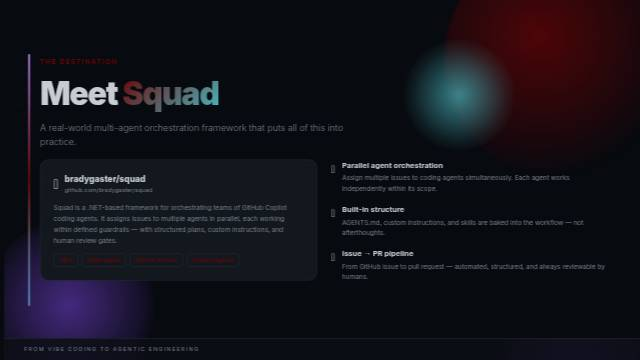
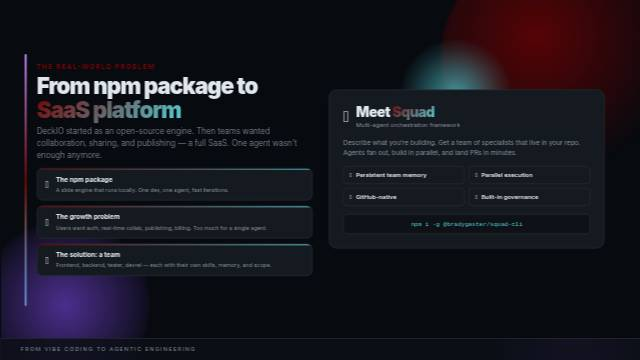
Auto-save from DECKIO — 2026-04-07T08:53

Changed region(s): [[0.0, 0.1528, 0.9375, 0.9167], [0.0312, 0.9472, 0.3125, 0.9778], [0.3438, 0.4583, 0.4688, 0.4889]]

diff --git a/src/slides/SquadSlide.jsx b/src/slides/SquadSlide.jsx
@@ -10,57 +10,74 @@ export default function SquadSlide({ index, project }) {
       <div className={`orb ${styles.orb3}`} />
 
       <div className={`${styles.body} content-frame content-gutter`}>
-        <p className={styles.eyebrow}>The Destination</p>
-        <h1>
-          Meet <span className={styles.highlight}>Squad</span>
-        </h1>
-        <p className={styles.subtitle}>
-          A real-world multi-agent orchestration framework that puts all of this into practice.
-        </p>
-
         <div className={styles.columns}>
-          <div className={styles.repoCard}>
-            <div className={styles.repoHeader}>
-              <span className={styles.repoIcon}>📦</span>
-              <div>
-                <span className={styles.repoName}>bradygaster/squad</span>
-                <span className={styles.repoUrl}>github.com/bradygaster/squad</span>
-              </div>
+          <div className={styles.left}>
+            <div>
+              <p className={styles.eyebrow}>The Real-World Problem</p>
+              <h1>
+                From npm package to <span className={styles.highlight}>SaaS platform</span>
+              </h1>
+              <p className={styles.subtitle}>
+                DeckIO started as an open-source engine. Then teams wanted collaboration, sharing, and publishing — a full SaaS. One agent wasn't enough anymore.
+              </p>
             </div>
-            <p className={styles.repoDesc}>
-              Squad is a .NET-based framework for orchestrating teams of GitHub Copilot coding agents.
-              It assigns issues to multiple agents in parallel, each working within defined guardrails —
-              with structured plans, custom instructions, and human review gates.
-            </p>
-            <div className={styles.repoTags}>
-              <span className={styles.tag}>.NET</span>
-              <span className={styles.tag}>Multi-agent</span>
-              <span className={styles.tag}>GitHub Actions</span>
-              <span className={styles.tag}>Copilot Agents</span>
+
+            <div className={styles.cards}>
+              <div className={styles.card}>
+                <div className={styles.cardIcon}>📦</div>
+                <div>
+                  <h3>The npm package</h3>
+                  <p>A slide engine that runs locally. One dev, one agent, fast iterations.</p>
+                </div>
+              </div>
+              <div className={styles.card}>
+                <div className={styles.cardIcon}>🚀</div>
+                <div>
+                  <h3>The growth problem</h3>
+                  <p>Users want auth, real-time collab, publishing, billing. Too much for a single agent.</p>
+                </div>
+              </div>
+              <div className={styles.card}>
+                <div className={styles.cardIcon}>👥</div>
+                <div>
+                  <h3>The solution: a team</h3>
+                  <p>Frontend, backend, tester, devrel — each with their own skills, memory, and scope.</p>
+                </div>
+              </div>
             </div>
           </div>
 
-          <div className={styles.features}>
-            <div className={styles.featureItem}>
-              <span className={styles.featureIcon}>🤖</span>
-              <div>
-                <h3>Parallel agent orchestration</h3>
-                <p>Assign multiple issues to coding agents simultaneously. Each agent works independently within its scope.</p>
+          <div className={styles.right}>
+            <div className={styles.squadIntro}>
+              <div className={styles.squadHeader}>
+                <span className={styles.squadLogo}>⚡</span>
+                <div>
+                  <h2>Meet <span className={styles.highlight}>Squad</span></h2>
+                  <p className={styles.squadTag}>Multi-agent orchestration framework</p>
+                </div>
               </div>
-            </div>
-            <div className={styles.featureItem}>
-              <span className={styles.featureIcon}>📐</span>
-              <div>
-                <h3>Built-in structure</h3>
-                <p>AGENTS.md, custom instructions, and skills are baked into the workflow — not afterthoughts.</p>
+              <p className={styles.squadDesc}>
+                Describe what you're building. Get a team of specialists that live in your repo. Agents fan out, build in parallel, and land PRs in minutes.
+              </p>
+              <div className={styles.squadFeatures}>
+                <div className={styles.squadFeature}>
+                  <span>🧠</span>
+                  <span>Persistent team memory</span>
+                </div>
+                <div className={styles.squadFeature}>
+                  <span>🔀</span>
+                  <span>Parallel execution</span>
+                </div>
+                <div className={styles.squadFeature}>
+                  <span>🐙</span>
+                  <span>GitHub-native</span>
+                </div>
+                <div className={styles.squadFeature}>
+                  <span>🛡</span>
+                  <span>Built-in governance</span>
+                </div>
               </div>
-            </div>
-            <div className={styles.featureItem}>
-              <span className={styles.featureIcon}>🔁</span>
-              <div>
-                <h3>Issue → PR pipeline</h3>
-                <p>From GitHub issue to pull request — automated, structured, and always reviewable by humans.</p>
-              </div>
+              <code className={styles.installCmd}>npm i -g @bradygaster/squad-cli</code>
             </div>
           </div>
         </div>

diff --git a/src/slides/SquadSlide.module.css b/src/slides/SquadSlide.module.css
@@ -47,7 +47,8 @@
   z-index: 10;
   display: flex;
   flex-direction: column;
-  gap: 20px;
+  flex: 1;
+  min-height: 0;
 }
 
 .eyebrow {
@@ -56,13 +57,14 @@
   text-transform: uppercase;
   letter-spacing: 2.5px;
   color: var(--accent);
+  margin-bottom: 4px;
 }
 
 .body h1 {
-  font-size: clamp(40px, 5vw, 72px);
+  font-size: clamp(30px, 3.5vw, 48px);
   font-weight: 900;
   line-height: 1.08;
-  letter-spacing: -2.5px;
+  letter-spacing: -2px;
 }
 
 .highlight {
@@ -73,103 +75,151 @@
 }
 
 .subtitle {
-  font-size: clamp(15px, 1.5vw, 18px);
+  font-size: clamp(13px, 1.3vw, 16px);
   font-weight: 300;
   color: var(--muted-foreground);
-  line-height: 1.6;
-  max-width: 620px;
+  line-height: 1.5;
+  margin-top: 6px;
 }
 
 .columns {
   display: grid;
   grid-template-columns: 1fr 1fr;
-  gap: 28px;
-  align-items: start;
+  gap: 32px;
+  flex: 1;
+  min-height: 0;
 }
 
-.repoCard {
+.left {
+  display: flex;
+  flex-direction: column;
+  gap: 14px;
+  min-height: 0;
+  justify-content: center;
+}
+
+.cards {
+  display: grid;
+  grid-template-columns: 1fr;
+  gap: 10px;
+}
+
+.card {
+  position: relative;
+  overflow: hidden;
   background: var(--secondary);
   border: 1px solid var(--border);
-  border-radius: 16px;
-  padding: 26px;
-  display: flex;
-  flex-direction: column;
-  gap: 16px;
-}
-
-.repoHeader {
+  border-radius: 12px;
+  padding: 12px 16px;
   display: flex;
   align-items: center;
-  gap: 12px;
-}
-
-.repoIcon {
-  font-size: 28px;
-}
-
-.repoName {
-  display: block;
-  font-weight: 800;
-  font-size: 17px;
-  color: var(--foreground);
-}
-
-.repoUrl {
-  display: block;
-  font-size: 12px;
-  color: var(--muted-foreground);
-}
-
-.repoDesc {
-  font-size: 13px;
-  color: var(--muted-foreground);
-  line-height: 1.65;
-}
-
-.repoTags {
-  display: flex;
-  flex-wrap: wrap;
-  gap: 8px;
-}
-
-.tag {
-  font-size: 11px;
-  font-weight: 600;
-  padding: 4px 10px;
-  background: var(--surface-overlay);
-  border: 1px solid var(--border);
-  border-radius: 6px;
-  color: var(--accent);
-  letter-spacing: 0.3px;
-}
-
-.features {
-  display: flex;
-  flex-direction: column;
-  gap: 22px;
-}
-
-.featureItem {
-  display: flex;
-  align-items: flex-start;
   gap: 14px;
 }
 
-.featureIcon {
-  font-size: 22px;
-  flex-shrink: 0;
-  margin-top: 2px;
+.card::before {
+  content: '';
+  position: absolute;
+  top: 0;
+  left: 0;
+  right: 0;
+  height: 3px;
+  background: linear-gradient(90deg, var(--accent), var(--cyan));
+  opacity: 0.6;
 }
 
-.featureItem h3 {
-  font-size: 15px;
+.cardIcon {
+  font-size: 20px;
+  flex-shrink: 0;
+}
+
+.card h3 {
+  font-size: 13px;
   font-weight: 700;
   color: var(--foreground);
   margin-bottom: 4px;
 }
 
-.featureItem p {
+.card p {
+  font-size: 11px;
+  color: var(--muted-foreground);
+  line-height: 1.45;
+}
+
+.right {
+  display: flex;
+  align-items: center;
+  justify-content: center;
+  min-height: 0;
+}
+
+.squadIntro {
+  background: var(--secondary);
+  border: 1px solid var(--border);
+  border-radius: 16px;
+  padding: 28px;
+  display: flex;
+  flex-direction: column;
+  gap: 16px;
+  width: 100%;
+}
+
+.squadHeader {
+  display: flex;
+  align-items: center;
+  gap: 14px;
+}
+
+.squadLogo {
+  font-size: 32px;
+}
+
+.squadHeader h2 {
+  font-size: 28px;
+  font-weight: 900;
+  letter-spacing: -1px;
+  line-height: 1.1;
+}
+
+.squadTag {
+  font-size: 12px;
+  color: var(--muted-foreground);
+  font-weight: 400;
+  margin-top: 2px;
+}
+
+.squadDesc {
   font-size: 13px;
   color: var(--muted-foreground);
-  line-height: 1.55;
+  line-height: 1.6;
+}
+
+.squadFeatures {
+  display: grid;
+  grid-template-columns: 1fr 1fr;
+  gap: 8px;
+}
+
+.squadFeature {
+  display: flex;
+  align-items: center;
+  gap: 8px;
+  font-size: 12px;
+  font-weight: 600;
+  color: var(--foreground);
+  padding: 8px 12px;
+  background: var(--surface-overlay);
+  border: 1px solid var(--border);
+  border-radius: 8px;
+}
+
+.installCmd {
+  display: block;
+  font-family: 'JetBrains Mono', 'Fira Code', monospace;
+  font-size: 12px;
+  color: var(--cyan);
+  background: rgba(0, 0, 0, 0.3);
+  border: 1px solid var(--border);
+  border-radius: 8px;
+  padding: 10px 14px;
+  text-align: center;
 }
